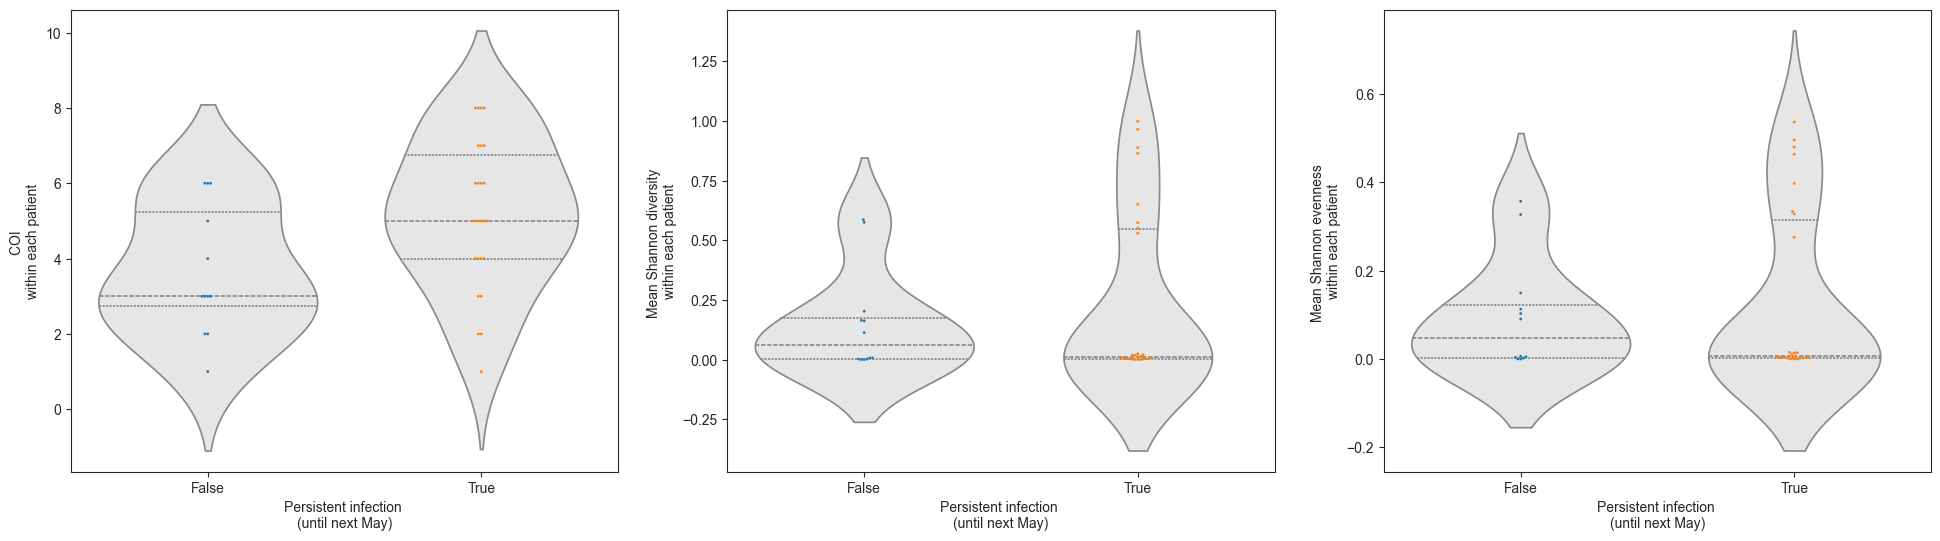
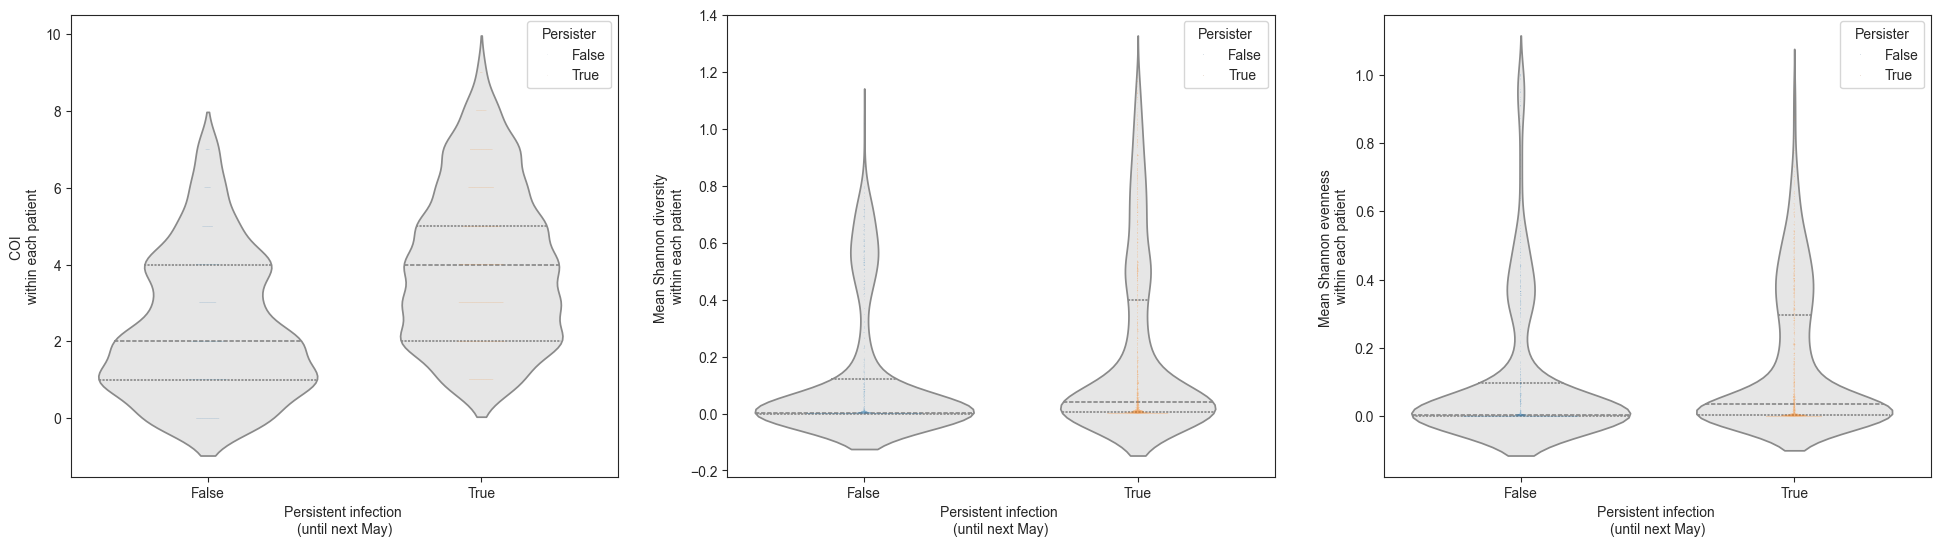
.

diff --git a/ode-solver-simulation/src/plots.py b/ode-solver-simulation/src/plots.py
@@ -237,7 +237,7 @@ def figDistributions(dat,params,f_name='ODE_persistence.png'):
     y_val = 'COI'
     # sns.catplot(data=dat, x="Persister", y=y_val, kind="violin", color=".9", inner='quartiles',ax=ax1)
     sns.violinplot(data=dat, x="Persister", y=y_val, color=".9", inner='quartiles' ,ax=ax1)
-    sns.swarmplot(data=dat, x="Persister",hue="Persister", y=y_val, size=0.25, palette=["#1f77b4", "#ff7f0e"],ax=ax1)
+    sns.swarmplot(data=dat, x="Persister",hue="Persister", y=y_val, size=2, palette=["#1f77b4", "#ff7f0e"],ax=ax1)
     ax1.set_xlabel('Persistent infection \n(until next May)')
     ax1.set_ylabel('COI \nwithin each patient')
 
@@ -245,7 +245,7 @@ def figDistributions(dat,params,f_name='ODE_persistence.png'):
     y_val = 'Diversity'
     # sns.catplot(data=dat, x="Persister", y=y_val, kind="violin", color=".9", inner='quartiles',ax=ax2)
     sns.violinplot(data=dat, x="Persister", y=y_val, color=".9", inner='quartiles' ,ax=ax2)
-    sns.swarmplot(data=dat, x="Persister",hue="Persister", y=y_val, size=0.25, palette=["#1f77b4", "#ff7f0e"],ax=ax2)
+    sns.swarmplot(data=dat, x="Persister",hue="Persister", y=y_val, size=2, palette=["#1f77b4", "#ff7f0e"],ax=ax2)
     ax2.set_xlabel('Persistent infection \n(until next May)')
     ax2.set_ylabel('Mean Shannon diversity \nwithin each patient')
 
@@ -253,7 +253,7 @@ def figDistributions(dat,params,f_name='ODE_persistence.png'):
     y_val = 'Evenness'
     # sns.catplot(data=dat, x="Persister", y=y_val, kind="violin", color=".9", inner='quartiles',ax=ax3)
     sns.violinplot(data=dat, x="Persister", y=y_val, color=".9", inner='quartiles' ,ax=ax3)
-    sns.swarmplot(data=dat, x="Persister", hue="Persister",y=y_val, size=0.25, palette=["#1f77b4", "#ff7f0e"],ax=ax3)
+    sns.swarmplot(data=dat, x="Persister", hue="Persister",y=y_val, size=2, palette=["#1f77b4", "#ff7f0e"],ax=ax3)
     ax3.set_xlabel('Persistent infection \n(until next May)')
     ax3.set_ylabel('Mean Shannon evenness \nwithin each patient')
 

diff --git a/ode-solver-simulation/src/simulation.py b/ode-solver-simulation/src/simulation.py
@@ -34,9 +34,9 @@ p= params()
 
 print('Calculating simulation 4')
 # s41= runs_a(p,10) #uniforme
-s4,distributions= runs_a(p,120,'normal',[1*(10**-6)],persister_out=True)
-sd_values = np.linspace( 1 * (10**-6)- (0.95 *1 * (10**-6) ), 1 * (10**-6)+ 1 * (10**-6), 120)
-s4_2, distributions2 = runs_a(p, 120, 'multiNorm', sd_values, persister_out=True)
+s4,distributions= runs_a(p,50,'normal',[1*(10**-6)],persister_out=True)
+sd_values = np.linspace( 1 * (10**-6)- (0.95 *1 * (10**-6) ), 1 * (10**-6)+ 1 * (10**-6), 50)
+s4_2, distributions2 = runs_a(p, 50, 'multiNorm', sd_values, persister_out=True)
 
 # Combine all dataframes into one dataframe with an ID column
 
@@ -57,8 +57,7 @@ for idx, (id, df) in enumerate(s4):
 
 
 
-plots.figDistributions(s4_2df,p,f_name='.\\plots\\ODE_persistence_s4_2.png')
-plots.figDistributions(s4_df,p,f_name='.\\plots\\ODE_persistence_s4.png')
+
 
 
 
